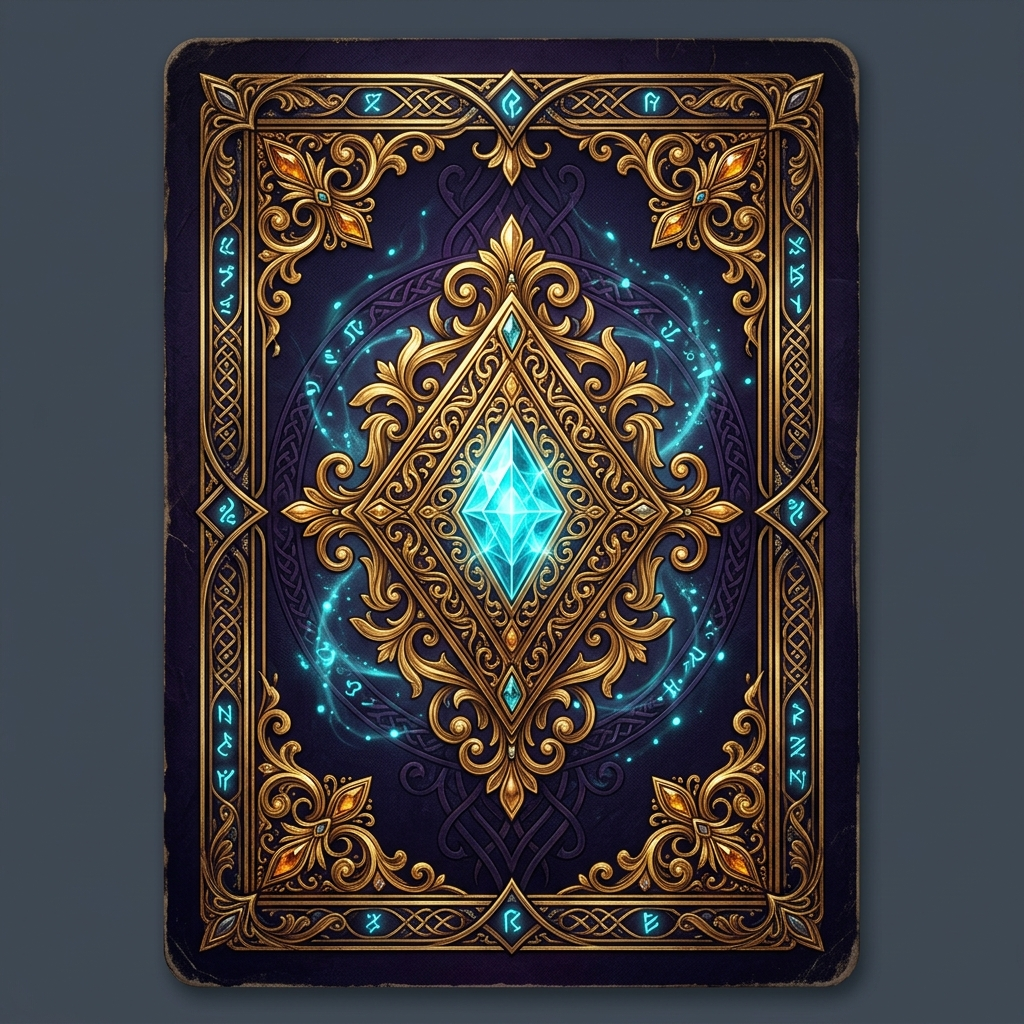
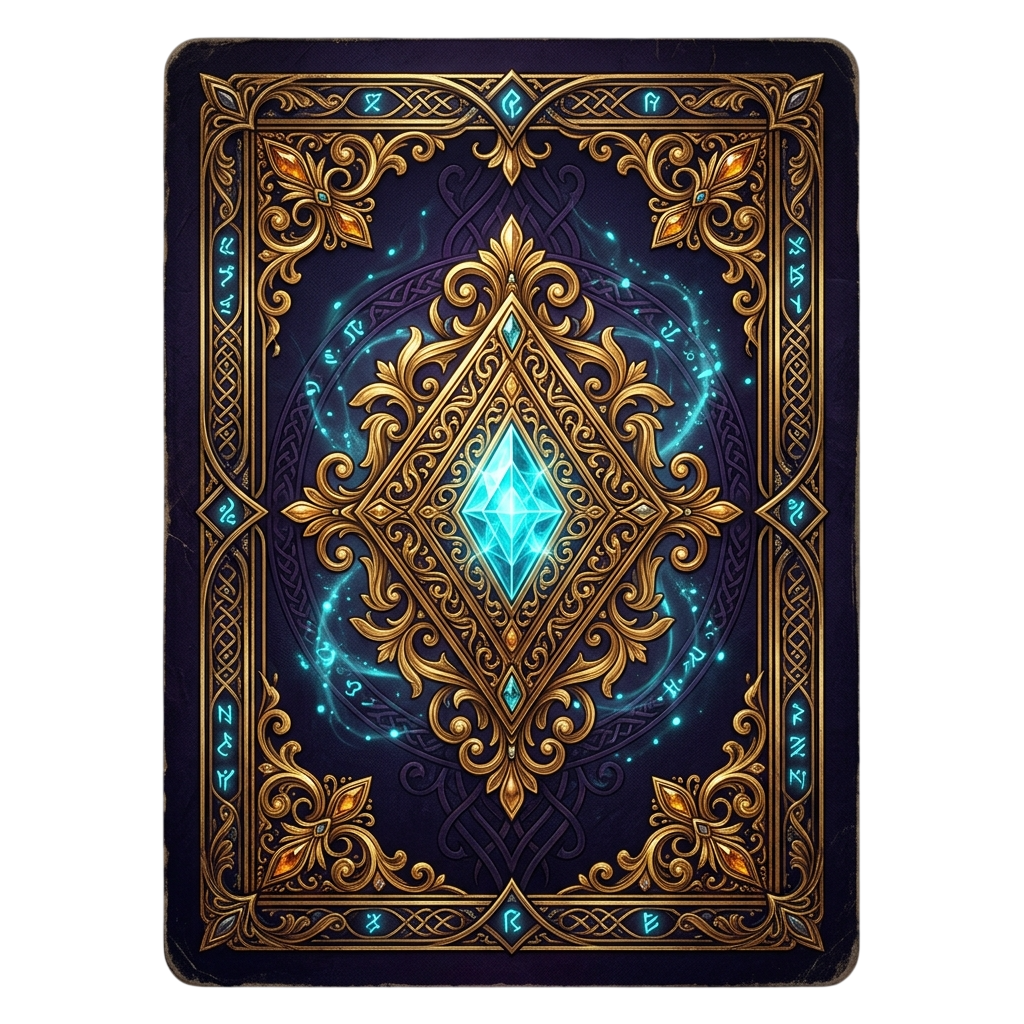
fix: card flip robustness - opaque backgrounds for transparent PNG support

diff --git a/components/WelcomeRewardChest.tsx b/components/WelcomeRewardChest.tsx
@@ -360,22 +360,34 @@ const RewardFlipCard: React.FC<RewardFlipCardProps> = ({
             backfaceVisibility: 'hidden',
             borderRadius: 16,
             overflow: 'hidden',
+            // Solid dark base ensures card is opaque even with transparent PNG
+            background: 'linear-gradient(160deg, #1a1033 0%, #0d0a1a 50%, #130e24 100%)',
             border: '1.5px solid rgba(212,175,55,0.3)',
             boxShadow: '0 8px 32px rgba(0,0,0,0.5), inset 0 0 30px rgba(212,175,55,0.05)',
           }}
         >
-          {/* Antique pattern background image */}
+          {/* Antique pattern overlay image (works with both opaque and transparent PNGs) */}
           <img
             src="/assets/card-back.png"
             alt=""
             draggable={false}
             style={{
+              position: 'absolute',
+              inset: 0,
               width: '100%',
               height: '100%',
               objectFit: 'cover',
               display: 'block',
             }}
           />
+          {/* Inner border glow for depth */}
+          <div style={{
+            position: 'absolute',
+            inset: 2,
+            borderRadius: 14,
+            border: '1px solid rgba(212,175,55,0.08)',
+            pointerEvents: 'none',
+          }} />
           {/* Shimmer overlay on card back */}
           <motion.div
             animate={{ x: [-150, 200] }}
@@ -386,7 +398,7 @@ const RewardFlipCard: React.FC<RewardFlipCardProps> = ({
               left: 0,
               width: 60,
               height: '100%',
-              background: 'linear-gradient(90deg, transparent, rgba(255,255,255,0.08), transparent)',
+              background: 'linear-gradient(90deg, transparent, rgba(255,255,255,0.1), transparent)',
               transform: 'skewX(-15deg)',
               pointerEvents: 'none',
             }}
@@ -404,6 +416,7 @@ const RewardFlipCard: React.FC<RewardFlipCardProps> = ({
             color: 'rgba(212,175,55,0.5)',
             letterSpacing: '0.3em',
             textTransform: 'uppercase',
+            zIndex: 2,
           }}>
             REWARD
           </div>
@@ -417,7 +430,7 @@ const RewardFlipCard: React.FC<RewardFlipCardProps> = ({
             backfaceVisibility: 'hidden',
             transform: 'rotateY(180deg)',
             borderRadius: 16,
-            background: bgGrad,
+            background: `linear-gradient(160deg, #0f0a20 0%, #0a0815 100%)`,
             border: `1.5px solid ${borderColor}`,
             display: 'flex',
             flexDirection: 'column',
@@ -427,7 +440,15 @@ const RewardFlipCard: React.FC<RewardFlipCardProps> = ({
             padding: 16,
           }}
         >
-          {/* Subtle inner glow */}
+          {/* Colored tint overlay */}
+          <div style={{
+            position: 'absolute',
+            inset: 0,
+            borderRadius: 16,
+            background: bgGrad,
+            pointerEvents: 'none',
+          }} />
+          {/* Radial inner glow */}
           <div style={{
             position: 'absolute',
             inset: 0,
